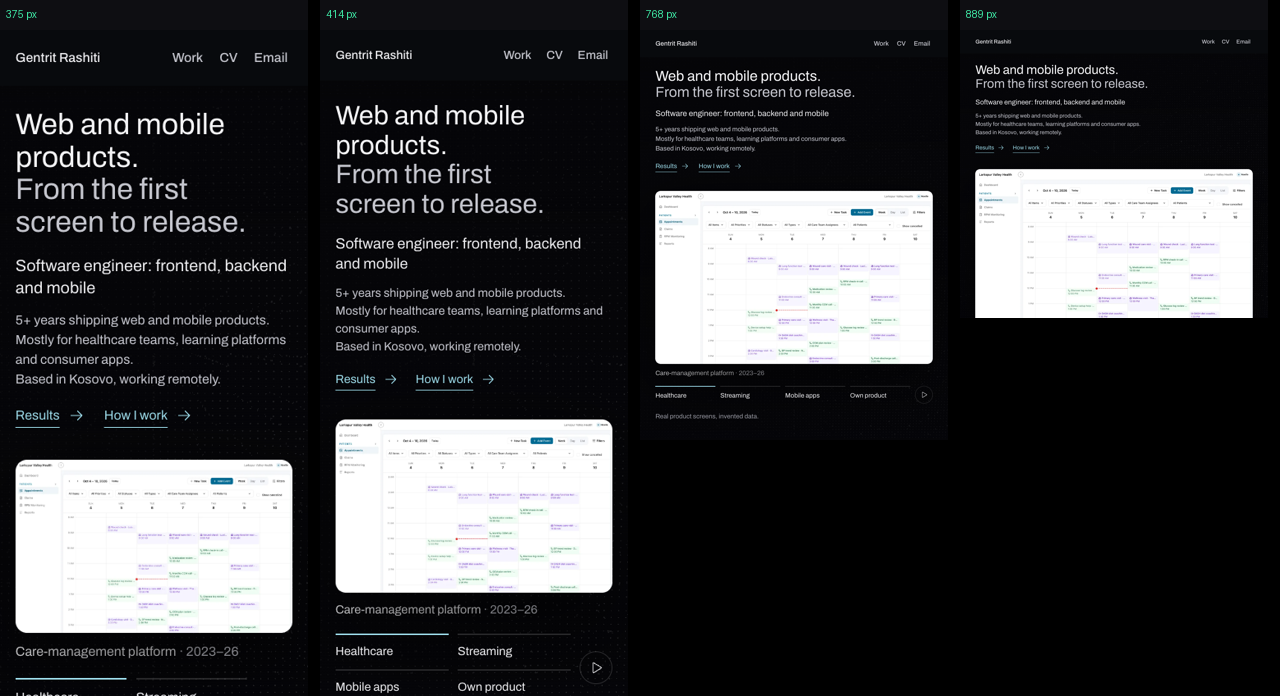
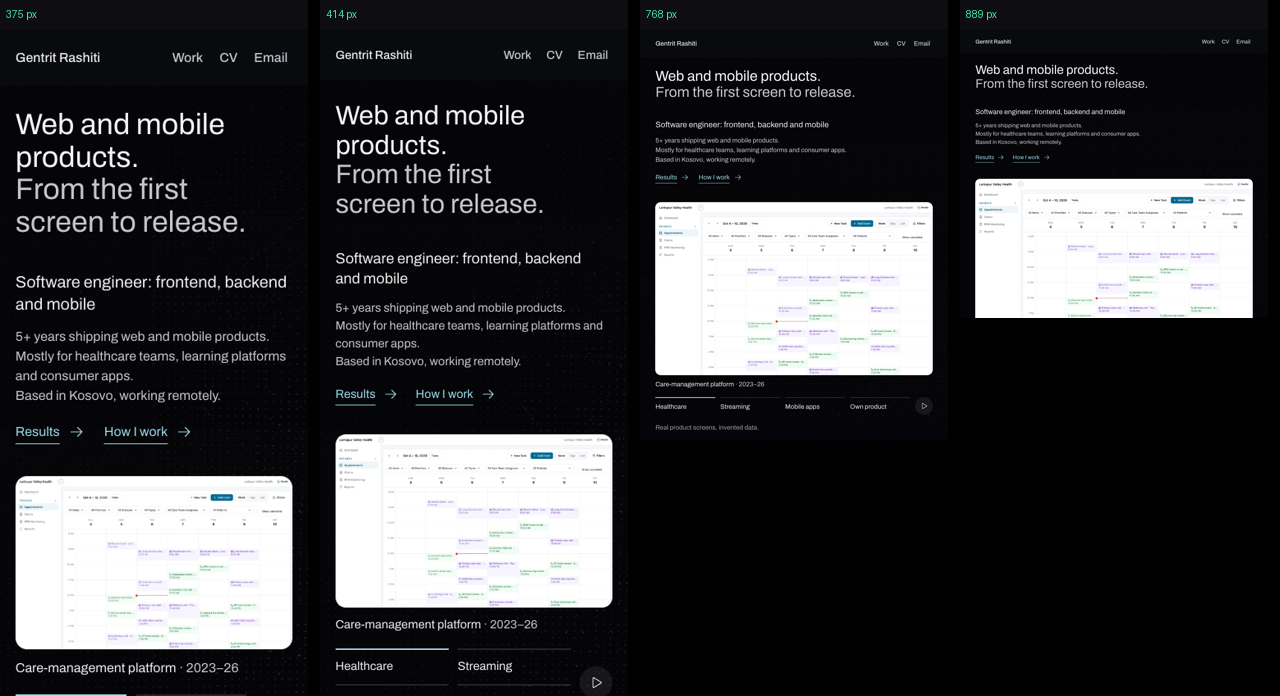
Run the headline across the hero and give its lines room beside the screen
A design review against UI/UX Pro Max, Impeccable, Emil and taste-skill v2:
the headline now spans the hero, one sentence per line, so it reads as two
lines at the full 56 px from 1024 px up instead of four in the left column.
The role and audience lines start right under it, level with the screen,
one step up on the type scale (28 and 20 px). The screen loses its resting
drop shadow, the pause control becomes a filled tone step, and the tabs'
product names stay available to screen readers.

Census, taste lint and the focus-hero checks pass on a production build;
eleven widths from 375 to 1920 keep one-line tabs and no sideways scroll.

diff --git a/src/portfolio/home.css b/src/portfolio/home.css
@@ -19,7 +19,7 @@
 .re-root[data-input="key"] .re-canvas { transition: none; }
 .re-root[data-ready] .re-canvas { opacity: 0.62; }
 .re-root .re-shade {
-  background: linear-gradient(90deg, rgb(5 5 8 / 0.92), rgb(5 5 8 / 0.6) 38%, transparent 78%);
+  background: linear-gradient(90deg, rgb(5 5 8 / 0.92), rgb(5 5 8 / 0.6) 38%, transparent 78%); /* taste-skill-ignore: neutral legibility scrim over the WebGL field */
 }
 .re-text-link {
   display: inline-flex; align-items: center; gap: 10px; min-height: 44px; width: fit-content;
@@ -35,11 +35,12 @@
   width: 100%; max-width: 1440px; margin: 0 auto; padding: calc(128px + env(safe-area-inset-top, 0px)) var(--re-gutter) 24px;
 }
 .re-intro-copy { grid-area: copy; position: relative; z-index: 2; }
-.re-intro-copy h1 {
+.re-intro-title {
+  grid-area: title; position: relative; z-index: 2;
   max-width: none; color: #f4f4f6; font: 400 var(--re-t5)/1.06 var(--re-sans);
   letter-spacing: 0;
 }
-.re-intro-copy h1 span { display: block; }
+.re-intro-title span { display: block; }
 .re-intro-role { margin-top: 22px !important; font-size: var(--re-t2); line-height: 1.35; }
 .re-intro-bio { margin-top: 14px !important; color: var(--re-fg-2); font-size: 16px; line-height: 1.5; }
 .re-intro-links { display: flex; flex-wrap: wrap; gap: 0 24px; margin-top: 10px; }
@@ -110,14 +111,14 @@ html.re-html { scroll-padding-top: 80px; scrollbar-color: #59616b #080a0d; }
   .re-nav { gap: 8px; }
   .re-nav a { padding-inline: 6px; }
   .re-nav .re-nav-about { display: none; }
-  .re-intro { display: grid; min-height: auto; max-width: none; padding-top: calc(96px + env(safe-area-inset-top, 0px)); grid-template-columns: minmax(0, 1fr); grid-template-areas: 'copy' 'art' 'product'; gap: 20px; }
+  .re-intro { display: grid; min-height: auto; max-width: none; padding-top: calc(96px + env(safe-area-inset-top, 0px)); grid-template-columns: minmax(0, 1fr); grid-template-areas: 'title' 'copy' 'art'; gap: 20px; }
   .re-intro-copy { grid-area: copy; }
-  .re-intro-copy h1 { max-width: none; line-height: 1.1; text-wrap: pretty; }
+  .re-intro-title { max-width: none; line-height: 1.1; text-wrap: pretty; }
   .re-intro-role { margin-top: 20px !important; }
   .re-intro-bio { max-width: 40ch; }
   .re-evidence ul { grid-template-columns: 1fr 1fr; gap: 28px 20px; }
   .re-evidence li { border: 0; padding: 0; }
-  .re-root .re-shade { background: linear-gradient(180deg, rgb(5 5 8 / 0.88), rgb(5 5 8 / 0.55) 50%, rgb(5 5 8 / 0.3)); }
+  .re-root .re-shade { background: linear-gradient(180deg, rgb(5 5 8 / 0.88), rgb(5 5 8 / 0.55) 50%, rgb(5 5 8 / 0.3)); } /* taste-skill-ignore: neutral legibility scrim over the WebGL field */
   .re-root[data-ready] .re-canvas { opacity: 0.42; }
   .re-engineering-rows, .re-workflow, .re-about { grid-template-columns: 1fr; gap: 32px; }
   .re-engineering-rows { margin-top: 32px; }
@@ -128,8 +129,8 @@ html.re-html { scroll-padding-top: 80px; scrollbar-color: #59616b #080a0d; }
   .re-disclosure-caret { grid-column: 2; grid-row: 1; }
 }
 @media (min-width: 761px) and (max-width: 1100px) {
-  .re-intro { grid-template-columns: minmax(0, 1fr); grid-template-areas: 'copy' 'art'; gap: 28px; }
-  .re-intro-copy h1 { max-width: 18em; }
+  .re-intro { grid-template-columns: minmax(0, 1fr); grid-template-areas: 'title' 'copy' 'art'; gap: 28px; }
+  .re-intro-title { max-width: 18em; }
 }
 @media (max-width: 360px) {
   .re-nav { gap: 0; }
@@ -144,7 +145,7 @@ html.re-html { scroll-padding-top: 80px; scrollbar-color: #59616b #080a0d; }
 /* The headline's empty box must not intercept the product's layer controls. */
 .re-intro-copy { pointer-events: none; }
 .re-intro-copy a { pointer-events: auto; }
-.re-intro-copy :is(h1, p) { pointer-events: auto; width: fit-content; max-width: 100%; }
+.re-intro-copy :is(h1, p), .re-intro-title { pointer-events: auto; width: fit-content; max-width: 100%; }
 .re-root .re-casepage { padding-top: calc(88px + env(safe-area-inset-top, 0px)); }
 @media (max-width: 767px) { .re-root .re-casepage { padding-top: calc(84px + env(safe-area-inset-top, 0px)); } }
 .re-decision-story { margin-block: 32px; }
@@ -165,25 +166,34 @@ html.re-html { scroll-padding-top: 80px; scrollbar-color: #59616b #080a0d; }
    one-line tabs all end above the fold (fixed 560 px words left the screen 446 px at 1180 and cramped the tabs). Below
    1024 the screen would drop under 420 px and the tabs wrap, so tablets stack. */
 @media (min-width: 1024px) {
-  .re-intro { display: grid; grid-template-columns: minmax(0, 0.9fr) minmax(0, 1.1fr); grid-template-areas: "copy art"; align-items: center; column-gap: 40px; }
+  .re-intro { display: grid; grid-template-columns: minmax(0, 0.9fr) minmax(0, 1.1fr); grid-template-areas: "title title" "copy art"; align-items: center; column-gap: 40px; row-gap: 32px; padding-top: calc(96px + env(safe-area-inset-top, 0px)); }
   .re-intro .re-fh { grid-area: art; }
+  /* The role and lines start level with the screen, right under the headline, not centred against it. */
+  .re-intro-copy { align-self: start; }
+  /* Beside a screen this large the lines step up one place on main's scale (role 20 → 28, lines 16 → 20), so the left
+     side reads as the claim's second voice, not a caption (owner, 2026-11-03: "too small"). */
+  .re-intro-role { font-size: var(--re-t3); line-height: 1.25; }
+  .re-intro-bio { font-size: var(--re-t2); line-height: 1.5; }
 }
 /* Four lines in 560 px: pretty keeps "Web and mobile" together, balance keeps "release." from standing alone. */
-.re-intro-copy h1 { text-wrap: pretty; }
-.re-intro-copy h1 span + span { color: var(--re-fg-2); text-wrap: balance; }
+/* The headline spans the hero, one sentence per line: two lines at main's own size from 768 px up (measured to 1920).
+   Phones keep main's 36 px step and wrap each sentence once: a fluid size that kept two lines fell off the 1.24 type
+   scale the census holds (30 px beside 28), and two lines would need a 25 px headline. */
+.re-intro-title { text-wrap: pretty; }
+.re-intro-title span + span { color: var(--re-fg-2); text-wrap: balance; }
 @media (max-width: 1023px) { .re-intro .re-fh { margin-top: 12px; } }
 .re-fh-note { color: var(--re-dim); font-size: 16px; line-height: 1.5; }
 .re-fh { display: grid; gap: 20px; }
-.re-fh-screen { position: relative; display: block; aspect-ratio: 16 / 10; overflow: hidden; border-radius: 14px; background: #0b0b10; box-shadow: 0 40px 120px rgb(0 0 0 / 0.6), 0 0 0 1px rgb(255 255 255 / 0.08); }
+.re-fh-screen { position: relative; display: block; aspect-ratio: 16 / 10; overflow: hidden; border-radius: 14px; background: #0b0b10; box-shadow: 0 0 0 1px rgb(255 255 255 / 0.08); } /* taste-skill-ignore: the product screen's own edge (data-ui), no resting shadow */
 .re-fh-screen img { position: absolute; inset: 0; width: 100%; height: 100%; object-fit: cover; }
 .re-fh-screen[data-portrait] img { object-fit: contain; object-position: 50% 50% !important; }
 /* The dotted copy: the page's own 9 px dot grid, cut from the screen. */
-.re-fh-dots { filter: grayscale(1) contrast(1.5) brightness(0.85); mask: radial-gradient(#000 1.6px, transparent 2.2px) 0 0 / 9px 9px; animation: re-fh-in 180ms cubic-bezier(0.23, 1, 0.32, 1) both; }
+.re-fh-dots { filter: grayscale(1) contrast(1.5) brightness(0.85); mask: radial-gradient(#000 1.6px, transparent 2.2px) 0 0 / 9px 9px; animation: re-fh-in 180ms cubic-bezier(0.23, 1, 0.32, 1) both; } /* taste-skill-ignore: a mask, not a fill: the page's own 9 px dot field */
 @keyframes re-fh-in { from { opacity: 0; } }
 /* The pull: the sharp copy uncovers left to right behind the seam, then rests. */
 .re-fh-sharp { animation: re-fh-pull 1100ms cubic-bezier(0.22, 1, 0.36, 1) 350ms both; }
 .re-fh-seam { position: absolute; inset: 0; pointer-events: none; animation: re-fh-seam 1100ms cubic-bezier(0.22, 1, 0.36, 1) 350ms both; }
-.re-fh-seam::after { content: ''; position: absolute; top: 0; bottom: 0; right: 0; width: 2px; background: var(--re-accent); box-shadow: 0 0 24px 4px var(--re-accent-mid); }
+.re-fh-seam::after { content: ''; position: absolute; top: 0; bottom: 0; right: 0; width: 2px; background: var(--re-accent); box-shadow: 0 0 24px 4px var(--re-accent-mid); } /* taste-skill-ignore: lit only while the wipe moves, never at rest */
 @keyframes re-fh-pull { from { clip-path: inset(0 100% 0 0); } to { clip-path: inset(0 0 0 0); } }
 @keyframes re-fh-seam { 0% { transform: translateX(-100%); opacity: 1; } 85% { opacity: 1; } 100% { transform: translateX(0); opacity: 0; } }
 .re-fh[data-reduced] .re-fh-sharp, .re-fh[data-reduced] .re-fh-seam { animation: none; }
@@ -202,7 +212,7 @@ html.re-html { scroll-padding-top: 80px; scrollbar-color: #59616b #080a0d; }
    no tab ever wraps a long product name into a narrow column (owner, 2026-11-03: "cramped" at 1280). */
 .re-fh-name { margin: -8px 0 0; font-size: 16px; line-height: 1.4; color: var(--re-fg); }
 .re-fh-name span { color: var(--re-fg-2); }
-.re-fh-strip li button > span + span { display: none; }
+.re-fh-strip li button > span + span { position: absolute; width: 1px; height: 1px; overflow: hidden; clip-path: inset(50%); white-space: nowrap; }
 @media (max-width: 760px) {
   .re-fh-open { display: none; }
 }
@@ -215,7 +225,8 @@ html.re-html { scroll-padding-top: 80px; scrollbar-color: #59616b #080a0d; }
 .re-fh-timer { position: absolute; top: -2px; left: 0; height: 2px; width: 100%; background: var(--re-fg); transform-origin: left; animation: re-fh-timer 4200ms linear both; }
 @keyframes re-fh-timer { from { transform: scaleX(0); } to { transform: scaleX(1); } }
 .re-fh-strip li button:active, .re-fh-pause:active { transform: scale(0.97); }
-.re-fh-pause { transition: transform 160ms cubic-bezier(0.23, 1, 0.32, 1); flex: none; width: 44px; height: 44px; align-self: center; display: grid; place-items: center; border: 1px solid rgb(255 255 255 / 0.18); border-radius: 999px; background: none; color: var(--re-fg); cursor: pointer; }
+.re-fh-pause { transition: transform 160ms cubic-bezier(0.23, 1, 0.32, 1); flex: none; width: 44px; height: 44px; align-self: center; display: grid; place-items: center; border: 0; border-radius: 999px; background: rgb(255 255 255 / 0.07); color: var(--re-fg); cursor: pointer; }
+@media (hover: hover) and (pointer: fine) { .re-fh-pause:hover { background: rgb(255 255 255 / 0.12); } }
 .re-fh-pause:focus-visible { outline: 2px solid var(--re-accent); outline-offset: 2px; }
 @media (max-width: 760px) {
   .re-fh-strip ol { grid-template-columns: 1fr 1fr; gap: 4px 12px; }

diff --git a/src/portfolio/HomeIntro.tsx b/src/portfolio/HomeIntro.tsx
@@ -33,8 +33,9 @@ export function HomeIntro({ onOpen, reduced, onPulse }: {
   return (
     <>
     <header id="re-top" className="re-intro" data-stage={STAGE.hero}>
+      {/* The headline runs across the whole hero, one sentence per line; the role, lines and screen share the row below. */}
+      <h1 className="re-intro-title re-solid" tabIndex={-1}><span>Web and mobile products.</span>{' '}<span>From the first screen to release.</span></h1>
       <div className="re-intro-copy re-solid">
-        <h1 tabIndex={-1}><span>Web and mobile products.</span>{' '}<span>From the first screen to release.</span></h1>
         <p className="re-intro-role">Software engineer: frontend, backend and mobile</p>
         <p className="re-intro-bio">5+ years shipping web and mobile products.<br />Mostly for healthcare teams, learning platforms and consumer apps.<br />Based in Kosovo, working remotely.</p>
         <div className="re-intro-links">

diff --git a/src/portfolio/FocusHero.tsx b/src/portfolio/FocusHero.tsx
@@ -54,6 +54,7 @@ export function FocusHero({ items, reduced, onOpen, onPulse, note }: {
         ref={fig}
         key={it.slug}
         className="re-fh-screen"
+        data-ui=""
         data-portrait={portrait || undefined}
         data-settled={settled === at || how === 'key' || undefined}
         data-how={how}

diff --git a/design/reviews/focus-hero-main/README.md b/design/reviews/focus-hero-main/README.md
@@ -9,6 +9,12 @@ The owner chose the focus pull over the exploded Offday stack for the home page'
 - Side by side from 1024 px at 0.9 : 1.1; stacked below. Measured at 375, 414, 768, 889, 1024, 1100, 1180, 1280, 1366, 1440 and 1920: tabs 44 px and one line, all four captions one line, no sideways scroll; from 1024 up the whole hero ends above the fold (1366 × 768 included). 889 × 832 leaves the tabs just under the fold. Sheets: `widths-phone-tablet.png`, `widths-laptop.png`, `widths-desktop.png`.
 - `rules-tap.mjs` tested only the stack and is removed; `focus-hero.json` (run with `cap.mjs`) takes its row in `design/quality/refractive/README.md`.
 
+Design review (owner asked for UI/UX Pro Max, Impeccable, Emil and taste-skill v2 before merging), one critique round and one fix batch:
+- The headline runs across the whole hero, one sentence per line: two lines at main's 56 px from 1024 px up (it was four lines in the left column). Phones keep main's 36 px step; a size that kept two lines there fell off the census's 1.24 type scale.
+- The role line and audience lines start under the headline, level with the screen, one step up on main's scale beside it (28 and 20 px; owner: "too small").
+- No resting shadow on the screen (its 1 px edge stays, marked data-ui); the pause control is a filled tone step, not an outlined circle; the tabs' product names are read out by screen readers.
+- taste lint 0 FAIL 0 WARN on the hero files (main's two field scrims and the dot mask and seam glow annotated with their reasons). The inspector's other findings are in Selected work and predate this change.
+
 Checks on the production build (vite preview, :4173): census `--assert` PASS; focus-hero.json all runs pass, keyboard trail included.
 
 Before choosing, a blind reviewer scored main's stack hero 37 against the focus pull's 33 on a stale branch page (first screens only); the owner chose the focus pull on taste.
